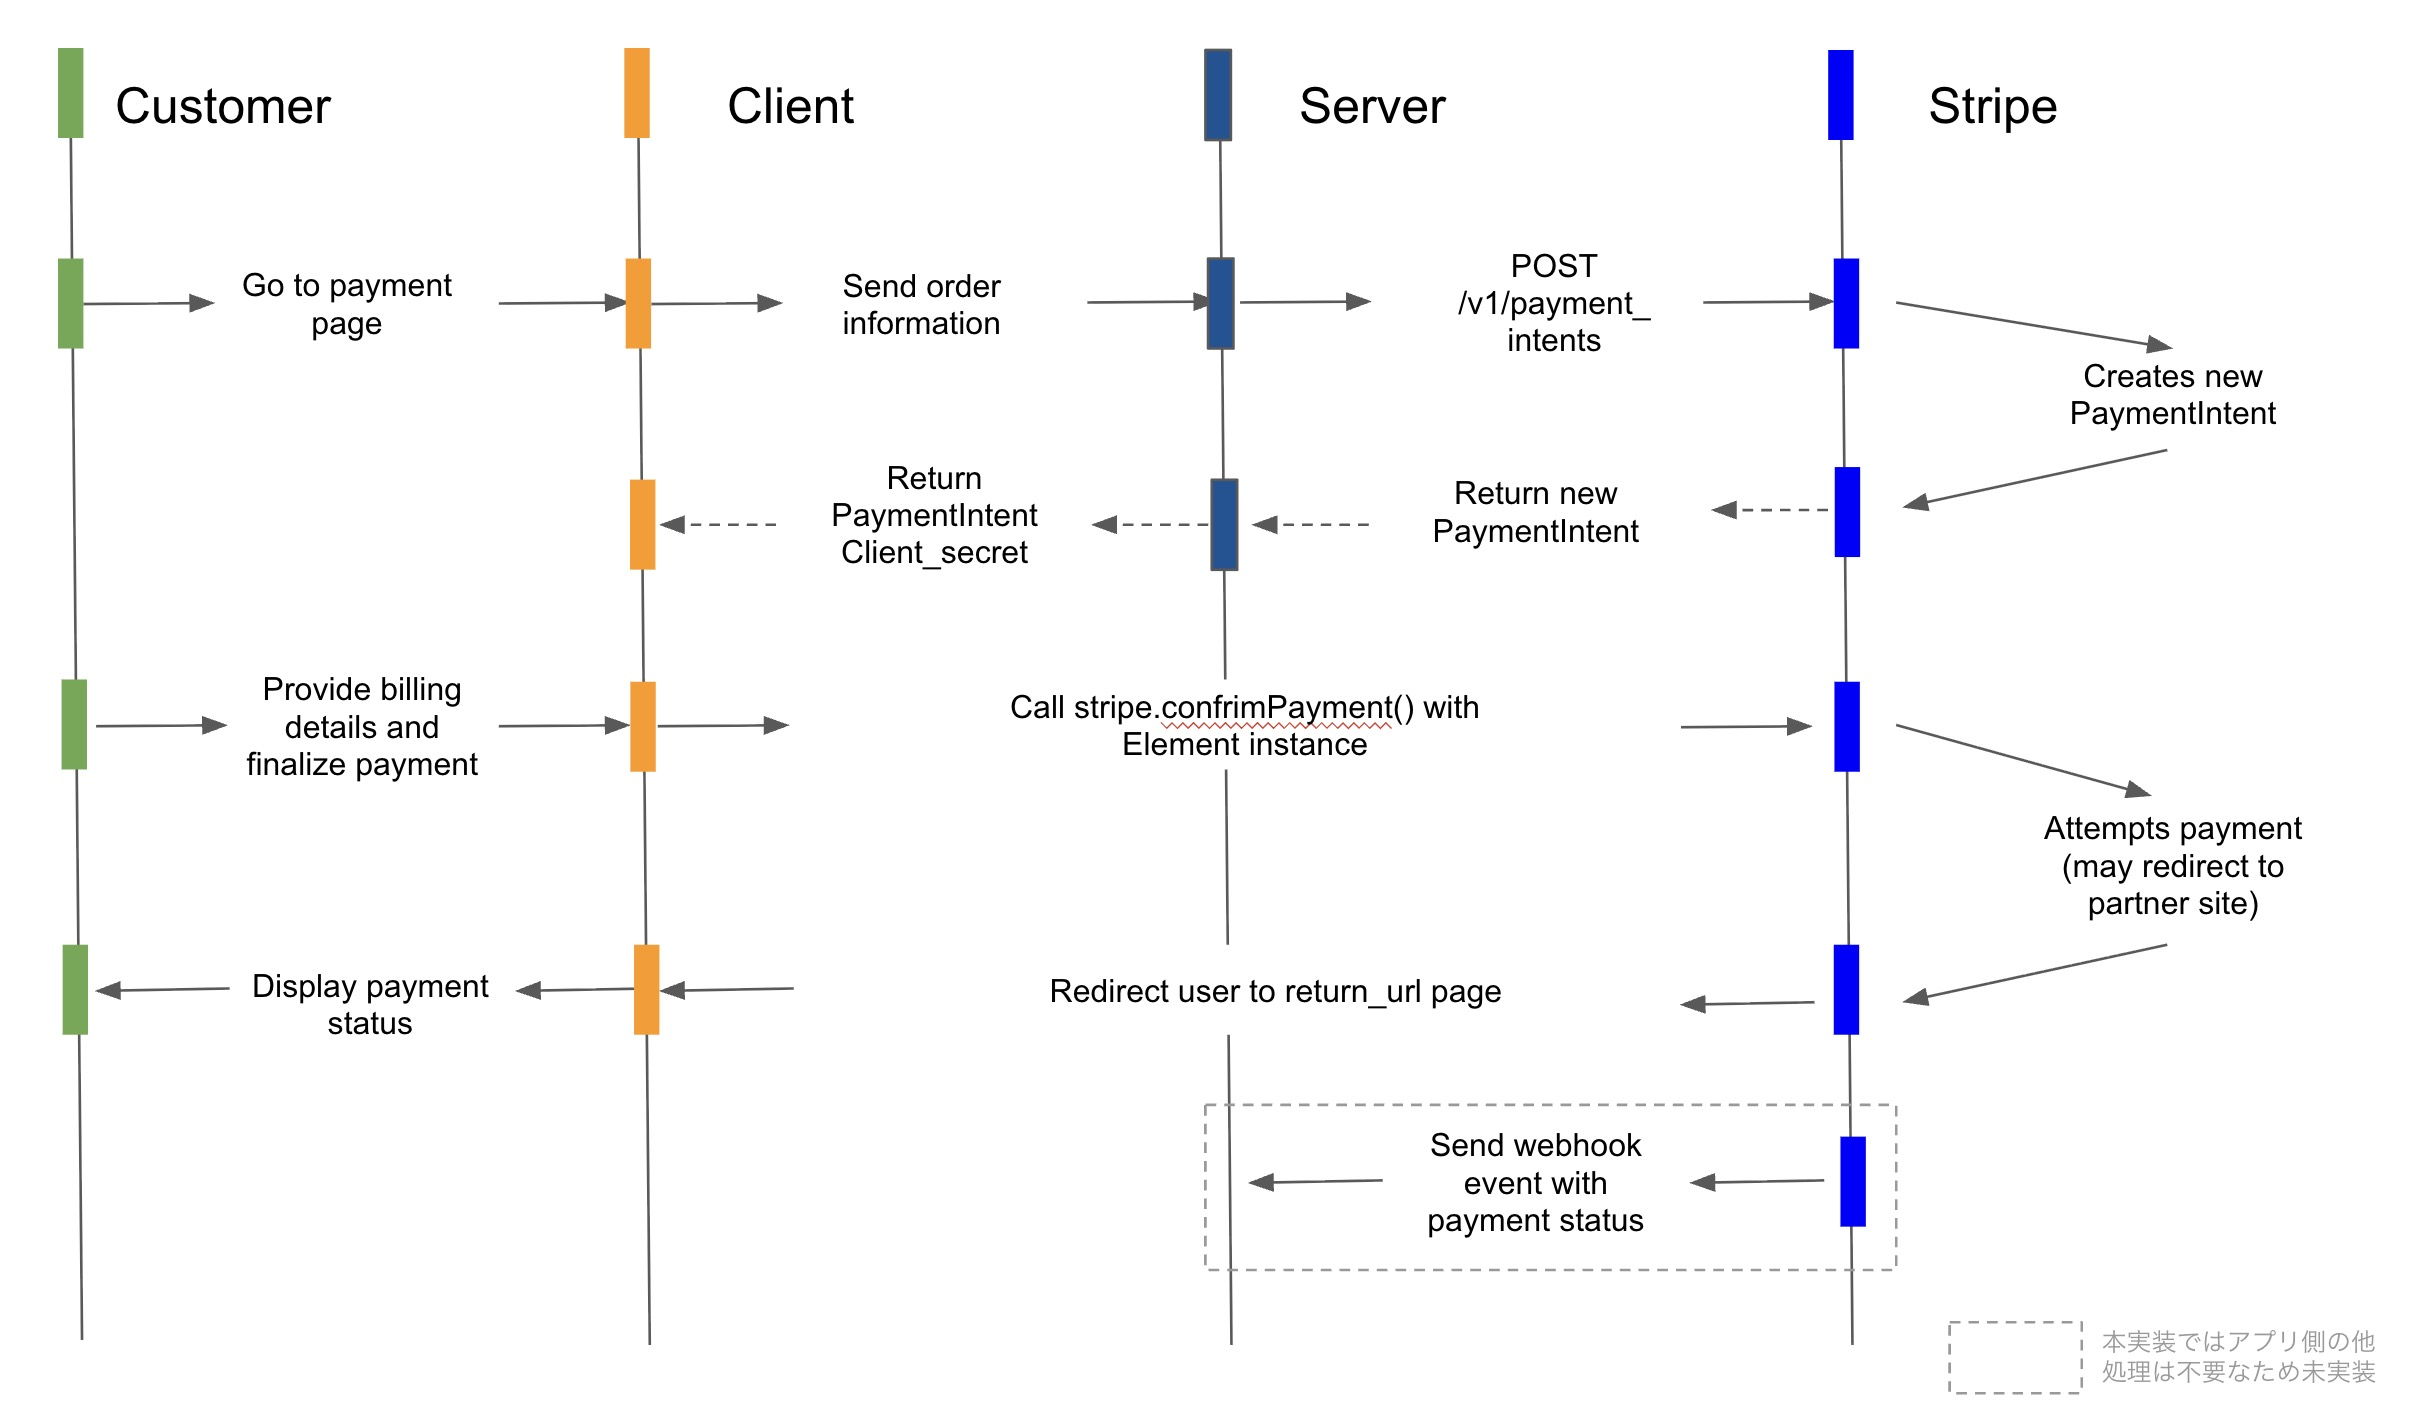
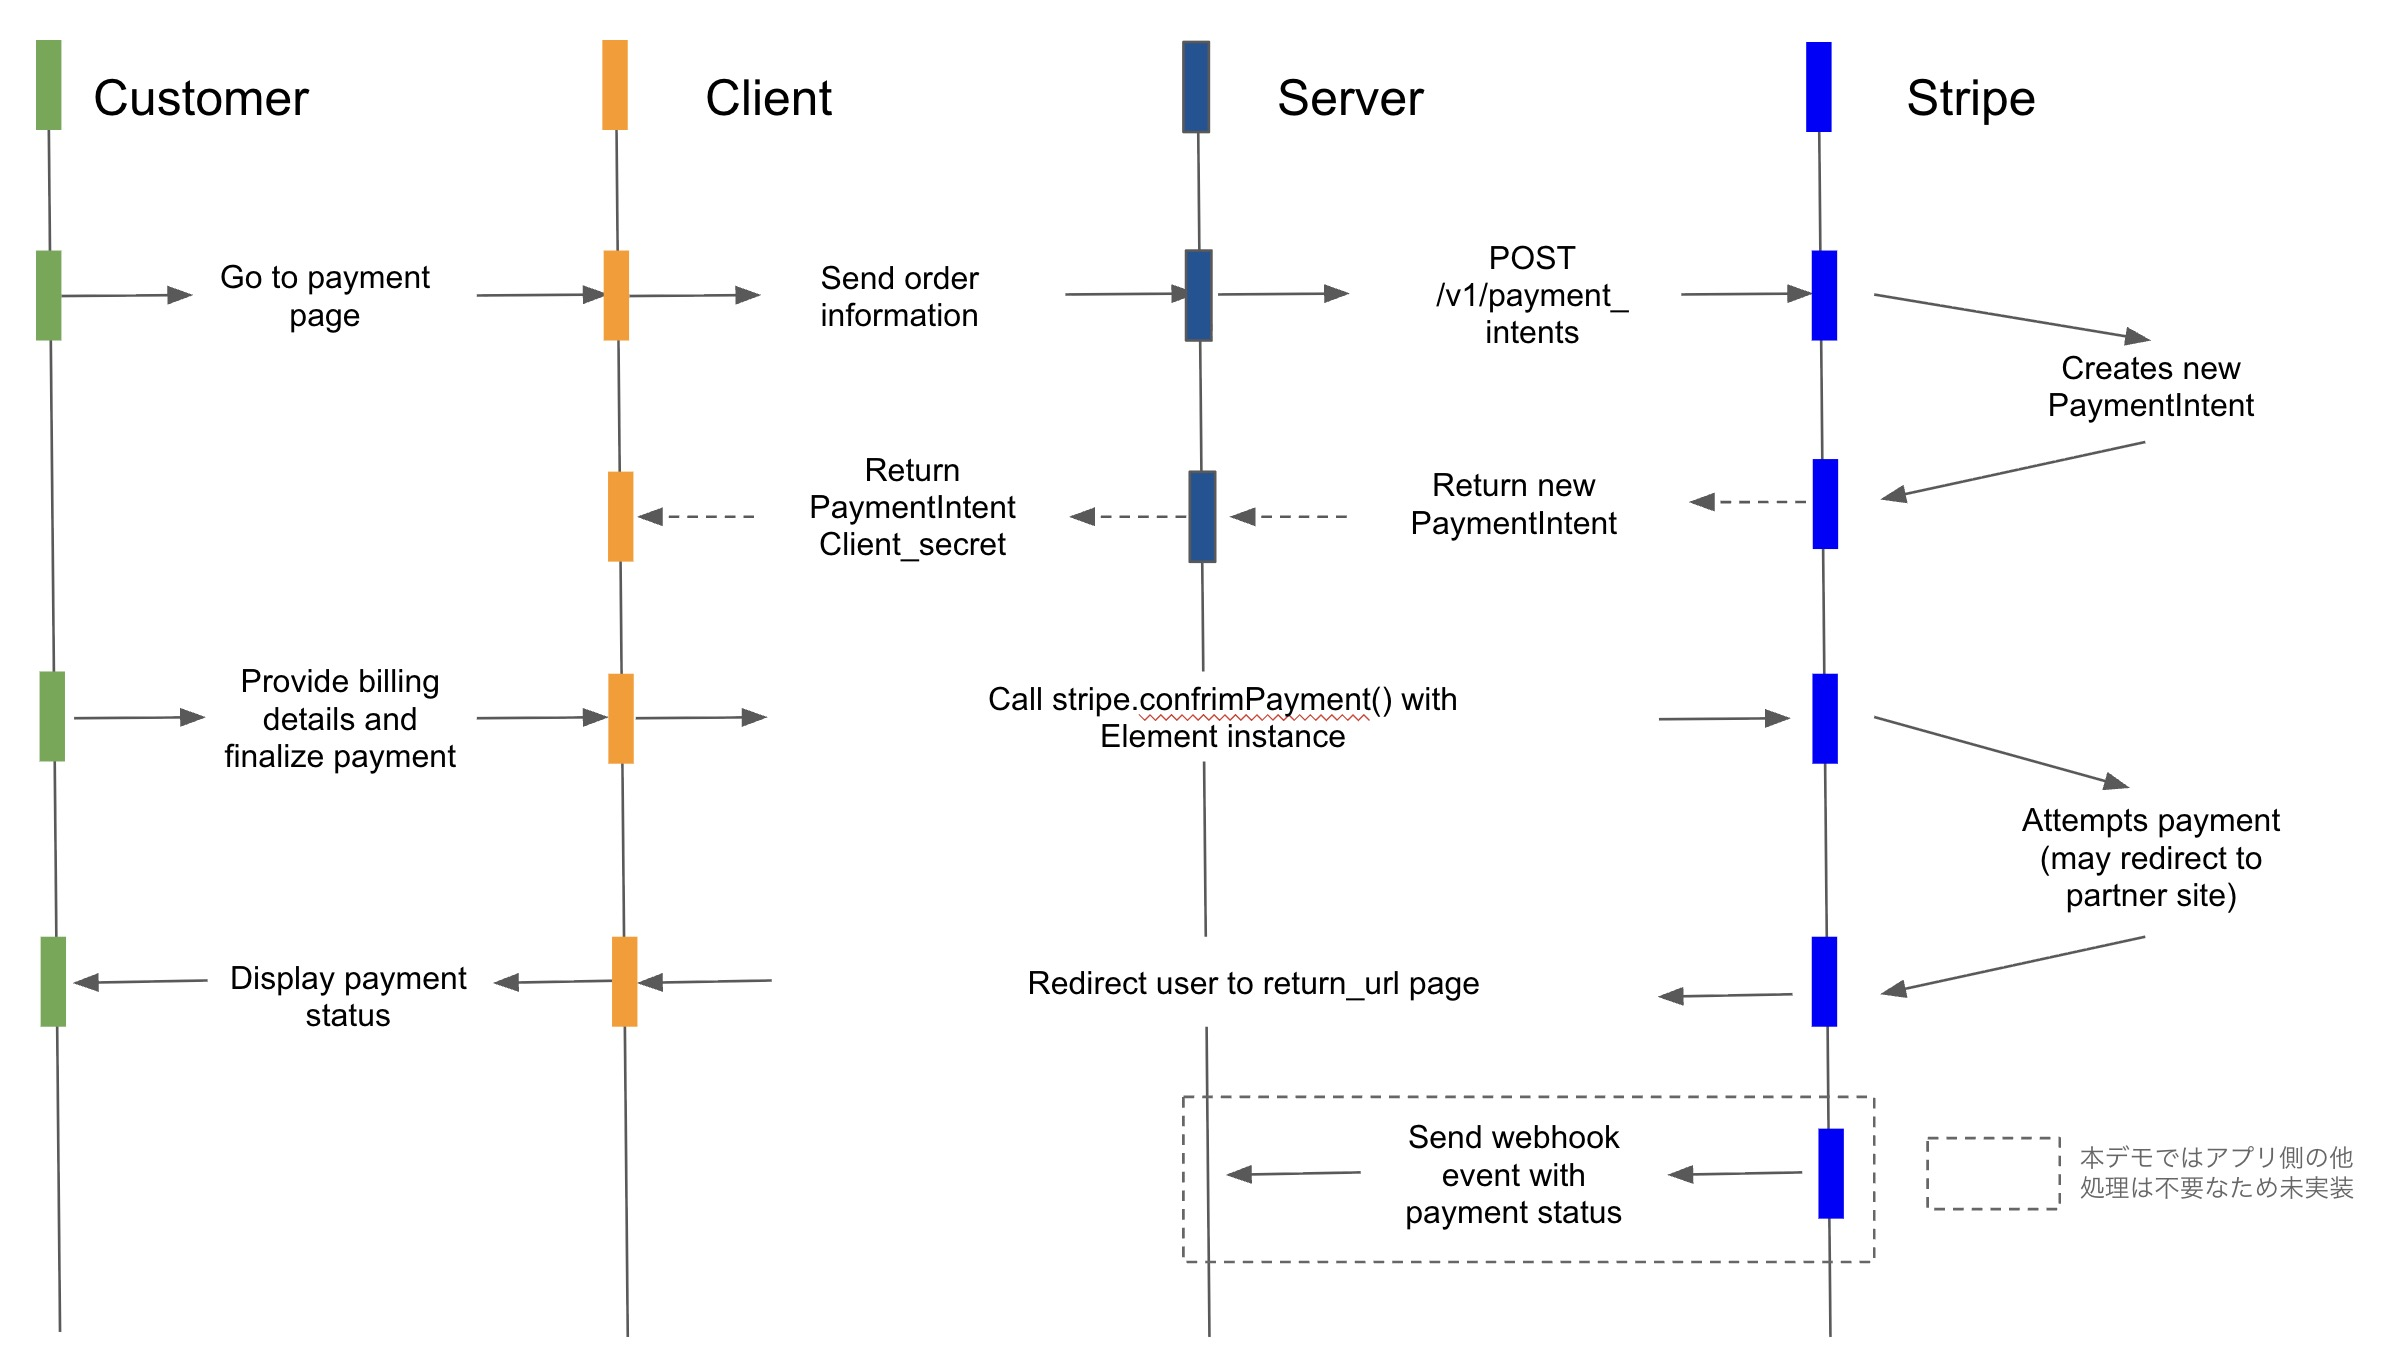
modified README.md

diff --git a/app.py b/app.py
@@ -51,7 +51,7 @@ def checkout():
 
 # Calculate order amount
 def calculate_order_amount(items):
-    # items: [{"id": "1"}, {"id": "2"}] のように送られてくる想定
+    # Recieve items: [{"id": "1"}, {"id": "2"}] ...
     total = 0
     for item in items:
         product = PRODUCTS.get(str(item["id"]))

diff --git a/README.md b/README.md
@@ -104,7 +104,8 @@ http://localhost:4242
 5. Stripe Payment Element を表示
     - ユーザーはemailアドレスを入力
 6. `stripe.confirmPayment()` により支払い確定
-7. 完了画面で PaymentIntent を取得し、結果を表示
+7. 完了画面にリダイレクト(`return_url`)
+8. 完了画面で PaymentIntent を取得し、結果を表示
 
 ※ 本デモでは決済後のサーバーのその他の処理は不要な前提のため未実装
 
